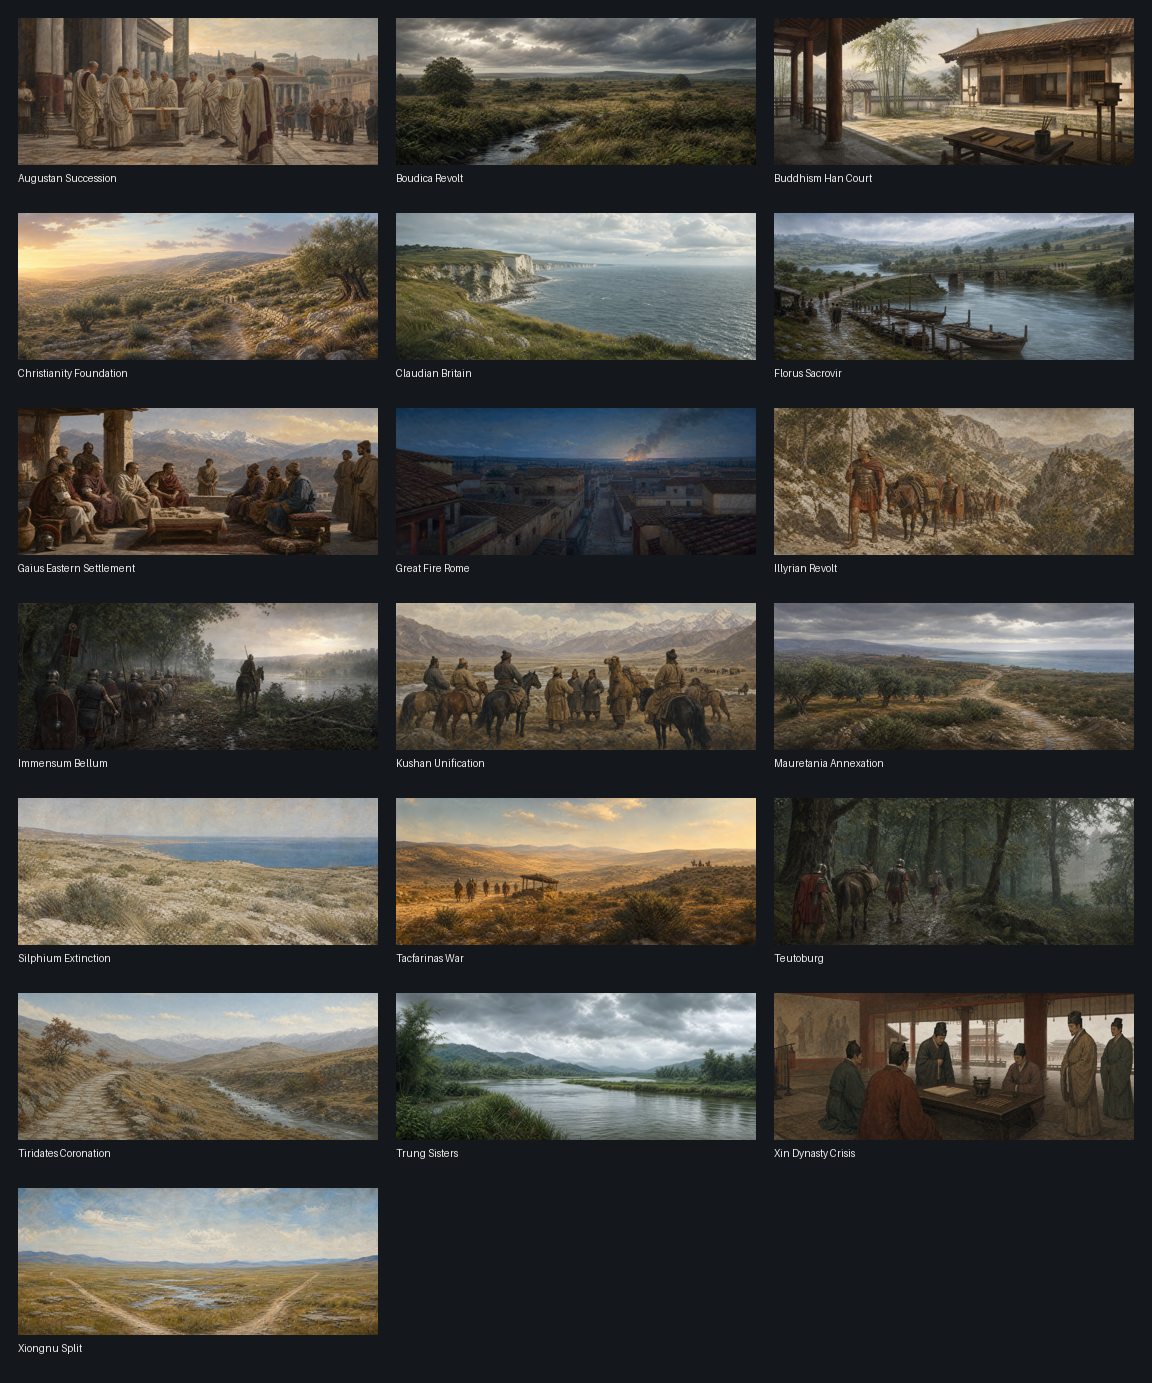
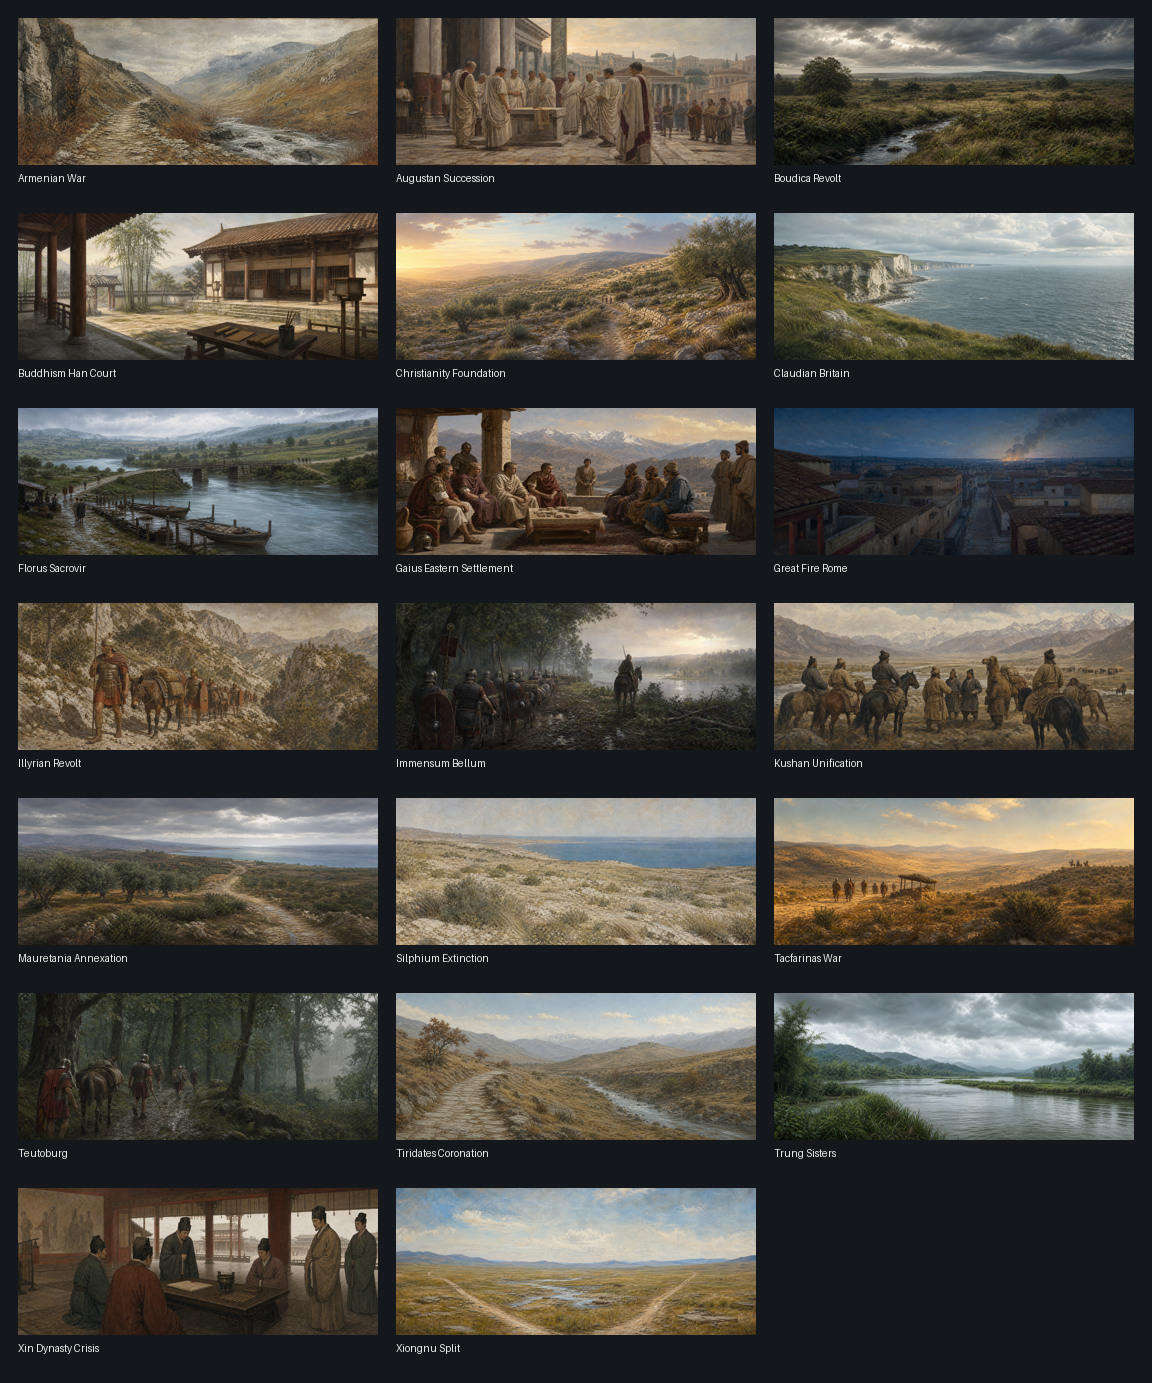
docs(m11): record Armenian war art

diff --git a/docs/m11/contact_sheet.html b/docs/m11/contact_sheet.html
@@ -1,5 +1,6 @@
 <!doctype html>
 <html lang="en"><head><meta charset="utf-8"><title>ANTIQVITAS M11 Event Art Contact Sheet</title><style>body{background:#14171b;color:#eee;font:16px system-ui;margin:2rem}main{max-width:1200px;margin:auto}section{display:grid;grid-template-columns:repeat(3,1fr);gap:18px}figure{margin:0;background:#20252b;padding:8px}img{width:100%;height:auto;display:block}figcaption{padding:8px 2px 2px;text-transform:none}</style></head><body><main><h1>ANTIQVITAS M11 event-art review</h1><p>Generated from retained 1080x440 masters. Each image remains subject to its individual scope record.</p><section>
+    <figure><img src="../../assets_queue/generated/antq_armenian_war_1080x440.png" alt="Armenian War"><figcaption>Armenian War</figcaption></figure>
     <figure><img src="../../assets_queue/generated/antq_augustan_succession_1080x440.png" alt="Augustan Succession"><figcaption>Augustan Succession</figcaption></figure>
     <figure><img src="../../assets_queue/generated/antq_boudica_revolt_1080x440.png" alt="Boudica Revolt"><figcaption>Boudica Revolt</figcaption></figure>
     <figure><img src="../../assets_queue/generated/antq_buddhism_han_court_1080x440.png" alt="Buddhism Han Court"><figcaption>Buddhism Han Court</figcaption></figure>

diff --git a/docs/TODO.md b/docs/TODO.md
@@ -202,11 +202,12 @@ after `make full` and its autonomous driver report are green.
 - [x] Generate, dimension-check, round-trip review, wire, and smoke-test the AD 43 Claudian Invasion of Britain event illustration through a landscape-only Channel-coast treatment.
 - [x] Generate, dimension-check, round-trip review, wire, and smoke-test the AD 48 Xiongnu Split event illustration through a non-literal eastern-steppe fragmentation-context treatment.
 - [x] Generate, dimension-check, round-trip review, wire, and smoke-test the AD 54 Silphium Extinction event illustration through a non-botanical Cyrenaican ecological-context treatment.
+- [x] Generate, dimension-check, round-trip review, wire, and smoke-test the AD 58 Rome-Parthia War over Armenia event illustration through a non-literal late-autumn Armenian frontier-context treatment.
 - [x] Generate, dimension-check, round-trip review, wire, and smoke-test the AD 60 Boudica's Revolt event illustration through a landscape-only eastern-Britain treatment.
 - [x] Generate, dimension-check, round-trip review, wire, and smoke-test the AD 64 Great Fire of Rome event illustration through a restrained non-literal urban context treatment.
 - [x] Generate, dimension-check, round-trip review, wire, and smoke-test the AD 65 Buddhism at the Han Court event illustration through a non-literal Eastern Han scholarly-courtyard context treatment.
 - [x] Generate, dimension-check, round-trip review, wire, and smoke-test the AD 66 Tiridates' Coronation event illustration through a non-literal Armenian highland diplomacy-context treatment.
-- [x] Render and review the maintained M11 event-art contact sheet (19 retained 1080x440 masters).
+- [x] Render and review the maintained M11 event-art contact sheet (20 retained 1080x440 masters).
 - [ ] Reach event/decision targets; finish flags, icons, illustrations, loading/age art, localization, glossary, and credits.
 - [ ] Remove common-screen placeholders; run milestone gate and tag `M11-done`.
 

diff --git a/docs/m11/M11_ARMENIAN_WAR_ART.md b/docs/m11/M11_ARMENIAN_WAR_ART.md
@@ -1,0 +1,27 @@
+# M11 Rome-Parthia War over Armenia illustration
+
+## Asset and scope
+
+The retained source is
+`assets_queue/generated_sources/antq_armenian_war_source.png`; its exact
+1080x440 derivative is `assets_queue/generated/antq_armenian_war_1080x440.png`.
+The game-facing BC7 DDS is
+`main_menu/gfx/interface/illustrations/event/antq_armenian_war.dds`.
+
+The text-free image is a generic late-autumn Armenian mountain gorge: a narrow
+stone-and-earth track beside a turbulent stream, bare slopes, basalt outcrops,
+and misted distant ridges. It identifies no battle, commander, army, camp,
+capital, route, treaty, boundary, date, action, or outcome. Review excluded
+people, soldiers, horses, animals, weapons, standards, settlements, crowns,
+religious emblems, later architecture, modern material, labels, logos, and
+readable writing.
+
+## Engine verification
+
+`EVENT_IMAGES` in `tools/m10_history.py` owns the `antq_m10.1015` image link.
+The texture follows the inspected 1080x440 BC7 country-event form, was
+round-tripped to PNG for visual review, and passed `make validate` plus
+enabled-mod `make smoke` with zero new error-log lines.
+
+Sources: ANTIQVITAS master plan sections 8.2, 9, and 20; local EU5
+country-event image contract.

diff --git a/docs/ASSUMPTIONS.md b/docs/ASSUMPTIONS.md
@@ -1,5 +1,15 @@
 # Historical Assumptions
 
+## 2026-07-20 - Armenian-war art is a generic highland frontier context
+
+The image is a late-autumn highland gorge with a track, turbulent stream, bare
+slopes, basalt outcrops, and misted ridges. It identifies no battle, commander,
+army, camp, capital, route, treaty, boundary, date, action, or outcome. It
+deliberately excludes people, military material, regalia, religious signs, and
+specific later Armenian architecture; it is not a reconstruction of the AD
+58-64 war or Rhandeia settlement. Sources weighed: P8.2; plan sections 9 and
+20. [secure current context; illustrative composition only]
+
 ## 2026-07-20 - Silphium-extinction art is generic Cyrenaican ecology
 
 The image is a limestone upland above the Mediterranean with low scrub,

diff --git a/docs/PROGRESS.md b/docs/PROGRESS.md
@@ -1,5 +1,17 @@
 # Progress
 
+## 2026-07-20 - M11 Rome-Parthia War over Armenia event illustration
+
+- Added a reviewed, non-literal late-autumn Armenian frontier-context image to
+  the AD 58 Rome-Parthia War over Armenia current through the generated
+  event-image contract.
+- The engine-sized BC7 texture was round-trip inspected; `make validate` and
+  enabled-mod smoke are green with zero new error-log lines. The maintained
+  M11 contact sheet now has twenty retained event masters.
+
+Next: continue the independent M11 art queue and source-led M5/M6 audit while
+runtime-gated milestone checks remain deferred.
+
 ## 2026-07-20 - M11 Silphium Extinction event illustration
 
 - Added a reviewed, non-botanical Cyrenaican ecological-context image to the

diff --git a/docs/m11/M11_CONTACT_SHEET.md b/docs/m11/M11_CONTACT_SHEET.md
@@ -5,7 +5,7 @@ every retained `assets_queue/generated/antq_*_1080x440.png` master. The HTML
 is the browsable review surface; the PNG is the compact visual record suitable
 for inclusion in the M11 milestone report.
 
-The current review contains nineteen 1080x440 event masters. It was inspected for
+The current review contains twenty 1080x440 event masters. It was inspected for
 omissions, clipped labels, incorrect aspect ratios, readable text, watermarks,
 or obvious anachronistic material. Individual asset records retain the more
 specific historical-scope findings and engine checks.
